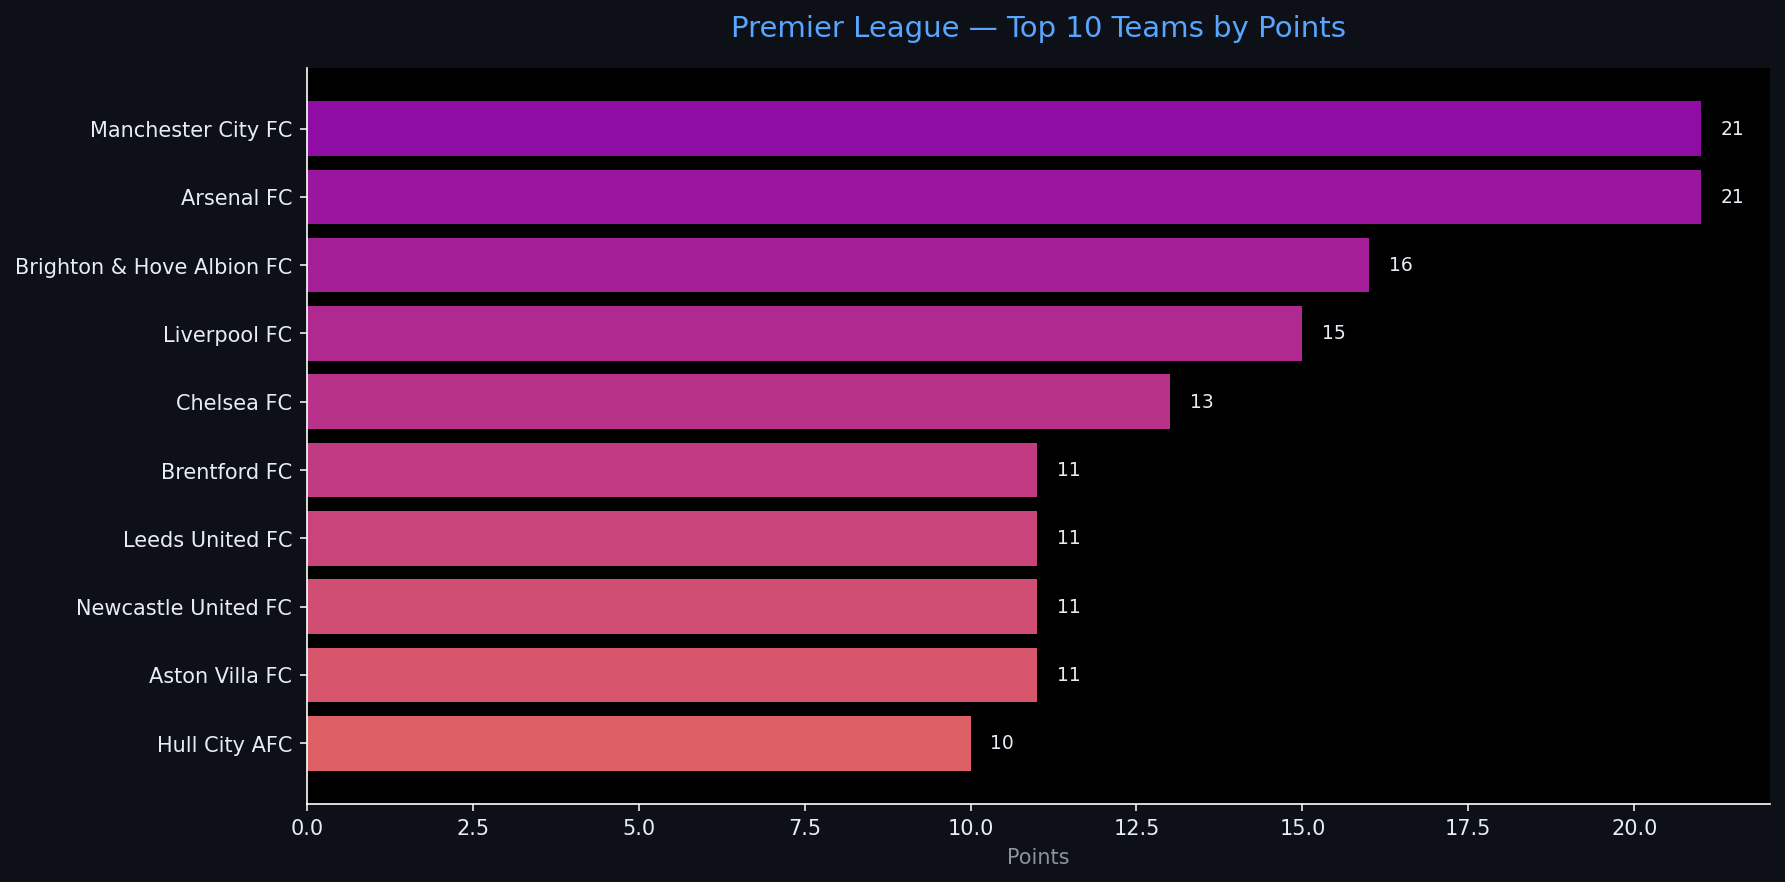
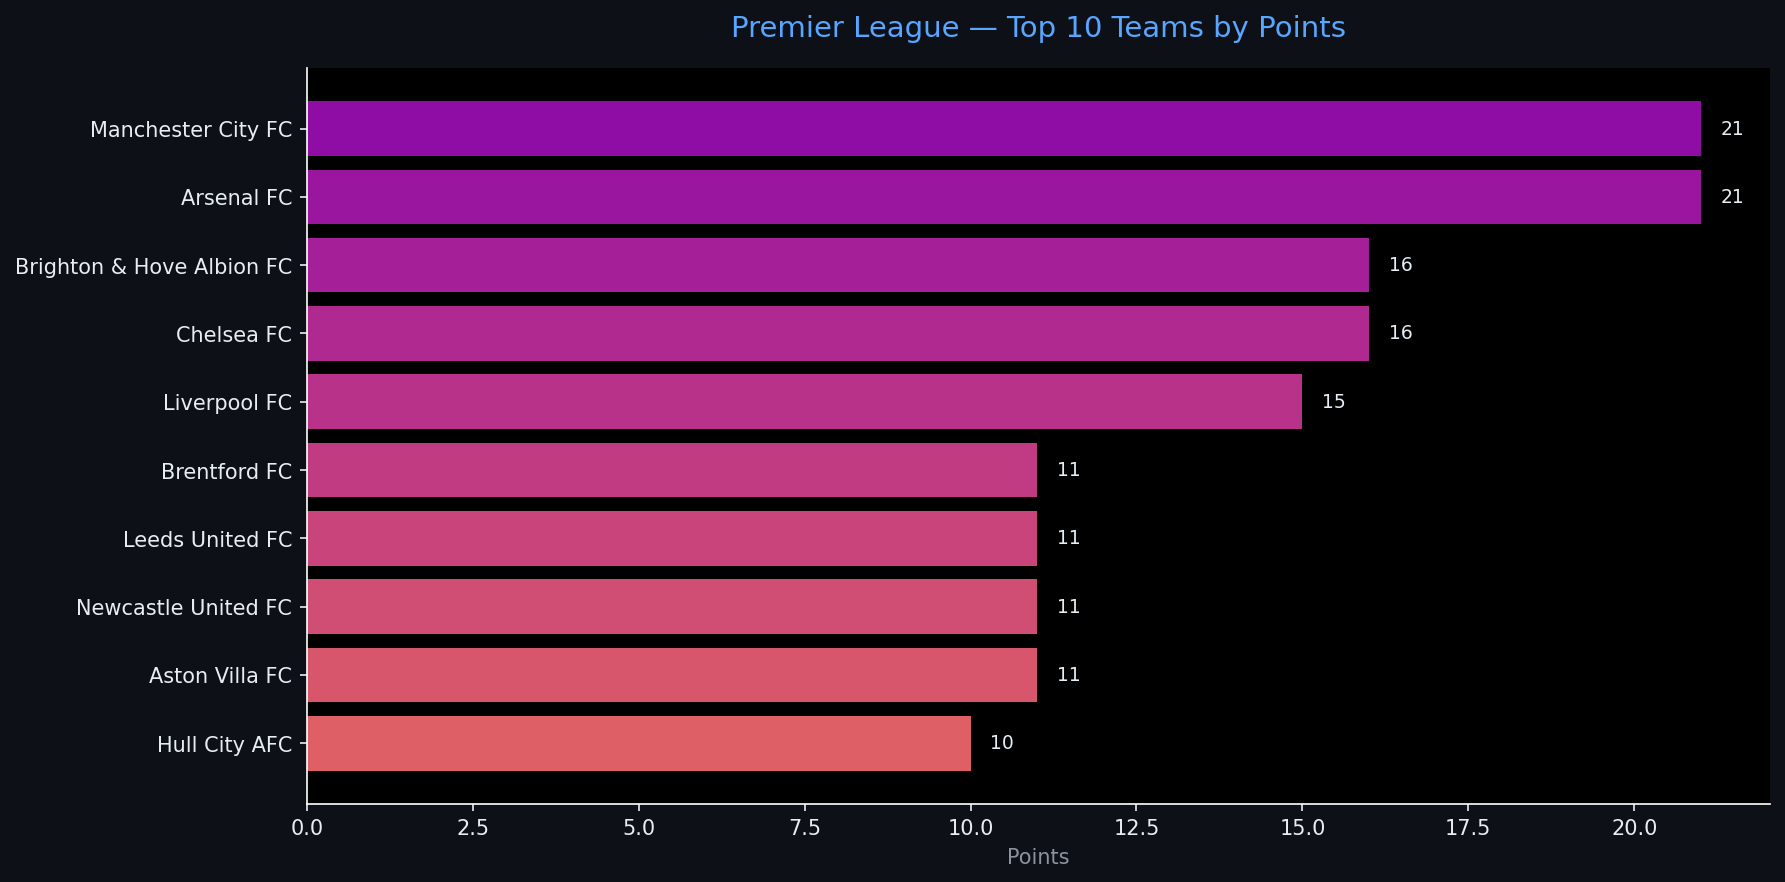
Automated ETL data update: 2026-10-31 14:09

Changed region(s): [[0.6471, 0.3367, 0.7703, 0.4898], [0.0924, 0.4286, 0.1541, 0.4898], [0.0924, 0.3673, 0.1541, 0.398]]

diff --git a/reports/pipeline_report.html b/reports/pipeline_report.html
@@ -4,7 +4,7 @@
 <head>
     <meta charset="UTF-8">
     <meta name="viewport" content="width=device-width, initial-scale=1.0">
-    <title>Sports Data Pipeline Report — 2026-10-31 07:50</title>
+    <title>Sports Data Pipeline Report — 2026-10-31 14:09</title>
     <style>
         body { font-family: 'Segoe UI', sans-serif; background: #0d1117; color: #e6edf3; margin: 0; padding: 2rem; }
         h1   { color: #58a6ff; border-bottom: 1px solid #30363d; padding-bottom: 0.5rem; }
@@ -20,7 +20,7 @@
 </head>
 <body>
     <h1>⚽ Sports Data Pipeline — Automated Report</h1>
-    <p class="meta">Generated: 2026-10-31 07:50 UTC &nbsp;|&nbsp; Sport: <strong>football</strong> &nbsp;|&nbsp; Rows: <strong>20</strong></p>
+    <p class="meta">Generated: 2026-10-31 14:09 UTC &nbsp;|&nbsp; Sport: <strong>football</strong> &nbsp;|&nbsp; Rows: <strong>20</strong></p>
     <span class="badge">Pipeline v1.0.0</span>
     <h2>📊 Data Table</h2>
     <table class="dataframe data-table">
@@ -89,6 +89,21 @@
     </tr>
     <tr>
       <td>4</td>
+      <td>Chelsea FC</td>
+      <td>9</td>
+      <td>16</td>
+      <td>5</td>
+      <td>1</td>
+      <td>3</td>
+      <td>19</td>
+      <td>15</td>
+      <td>0.556</td>
+      <td>1.778</td>
+      <td>0.616</td>
+      <td>NaN</td>
+    </tr>
+    <tr>
+      <td>5</td>
       <td>Liverpool FC</td>
       <td>8</td>
       <td>15</td>
@@ -100,21 +115,6 @@
       <td>0.500</td>
       <td>1.875</td>
       <td>0.654</td>
-      <td>NaN</td>
-    </tr>
-    <tr>
-      <td>5</td>
-      <td>Chelsea FC</td>
-      <td>8</td>
-      <td>13</td>
-      <td>4</td>
-      <td>1</td>
-      <td>3</td>
-      <td>17</td>
-      <td>15</td>
-      <td>0.500</td>
-      <td>1.625</td>
-      <td>0.562</td>
       <td>NaN</td>
     </tr>
     <tr>
@@ -270,16 +270,16 @@
     <tr>
       <td>16</td>
       <td>Manchester United FC</td>
-      <td>8</td>
+      <td>9</td>
       <td>7</td>
       <td>1</td>
       <td>4</td>
-      <td>3</td>
+      <td>4</td>
       <td>10</td>
-      <td>13</td>
-      <td>0.125</td>
-      <td>0.875</td>
-      <td>0.372</td>
+      <td>15</td>
+      <td>0.111</td>
+      <td>0.778</td>
+      <td>0.308</td>
       <td>NaN</td>
     </tr>
     <tr>
@@ -362,7 +362,7 @@
         
         <tr><td>Null Values</td><td>90</td></tr>
         
-        <tr><td>Run Timestamp (UTC)</td><td>2026-10-31T07:50:54.304042</td></tr>
+        <tr><td>Run Timestamp (UTC)</td><td>2026-10-31T14:09:41.042325</td></tr>
         
         <tr><td>ML Features Ready</td><td>False</td></tr>
         
